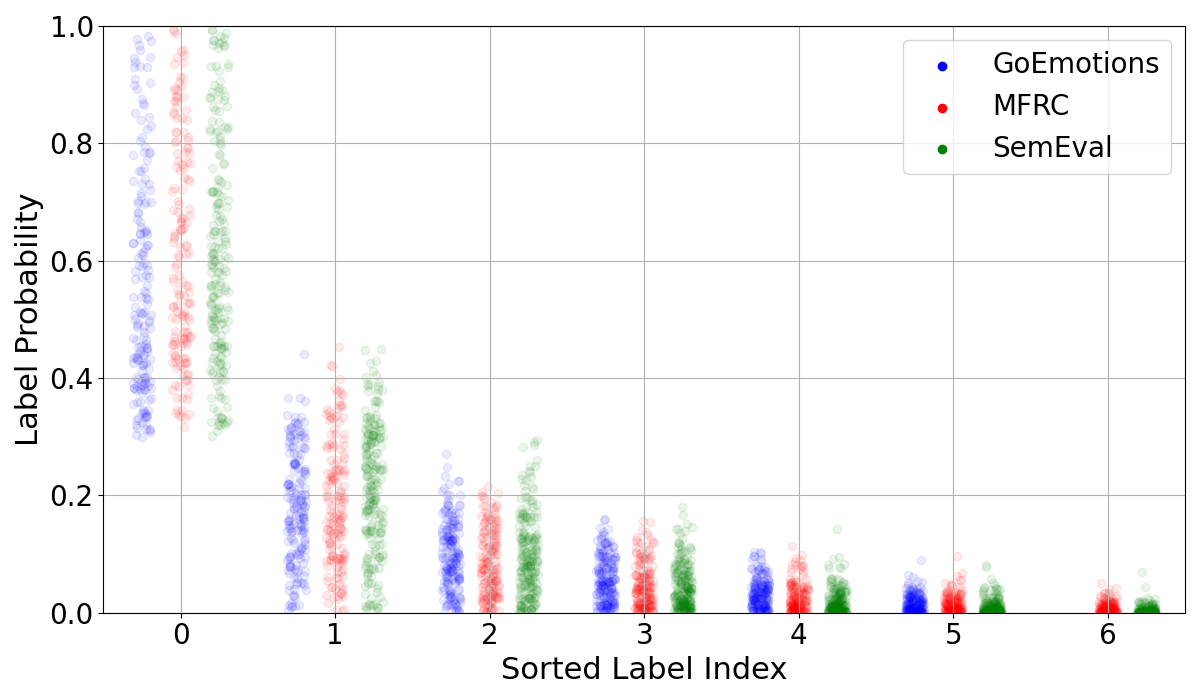
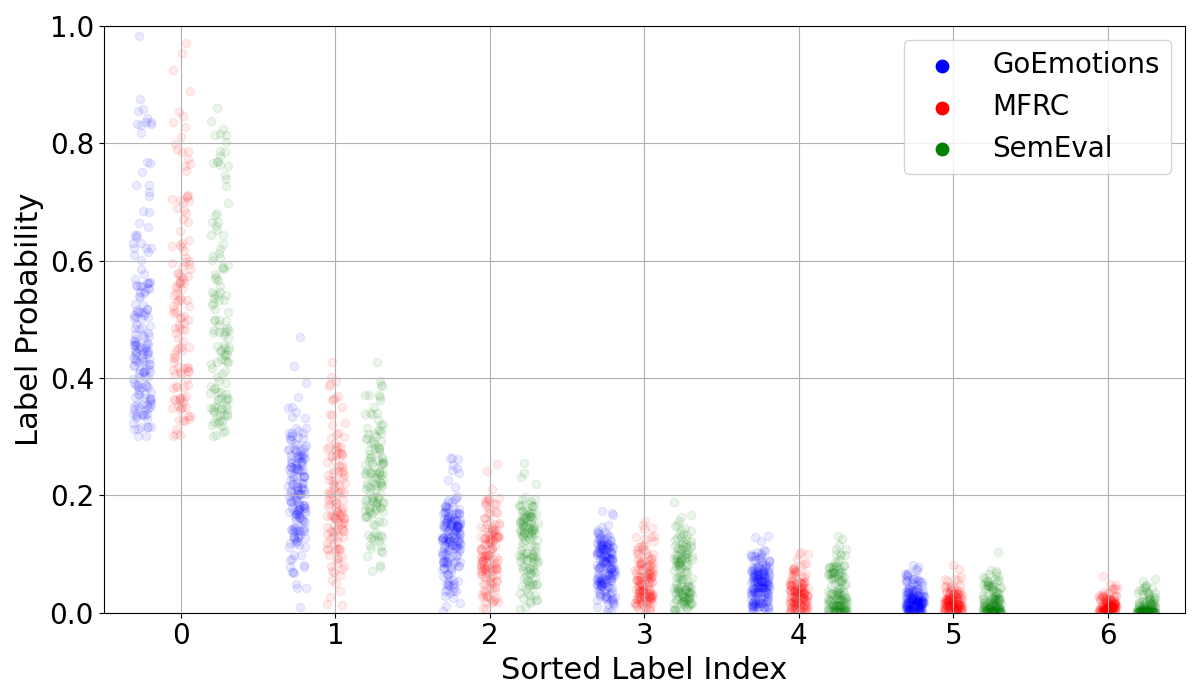
Add llama base experiments

diff --git a/scripts/prob_distr/plot_spikiness.py b/scripts/prob_distr/plot_spikiness.py
@@ -3,7 +3,9 @@ import os
 import numpy as np
 
 import sys
-sys.path.append('scripts/prob_distr')
+SCRIPT_DIR = os.path.dirname(os.path.abspath(__file__))
+PROJECT_ROOT = os.path.dirname(os.path.dirname(SCRIPT_DIR))
+sys.path.insert(0, SCRIPT_DIR)
 
 import matplotlib.pyplot as plt
 
@@ -48,14 +50,12 @@ def plot_multilabel_icl(yaml_files, save_path):
     for i, (yaml_file, color, label) in enumerate(zip(yaml_files, colors, labels)):
         data = load_data_from_yaml(yaml_file)
         points = get_graph_probs(data)
-        
+        # Legend entry (one per dataset; outside loop so we get it even if points is empty)
+        plt.scatter([], [], color=color, alpha=1, label=label, s=80)
         for x, probs in enumerate(points):
             jitter = x_offset * (i - 1)  # -0.25, 0.0, 0.25 for three datasets
             jittered_x = x + jitter + 0.12 * (np.random.random(len(probs)) - 0.5)
             plt.scatter(jittered_x, probs, color=color, alpha=0.08)
-            if x == 0:
-                plt.scatter(-1, -1, color=color, alpha=1, label=label)
-            # Only label once per dataset to avoid repeated legend entries
 
     plt.xlabel("Sorted Label Index", fontsize=22)
     plt.ylabel("Label Probability", fontsize=22)
@@ -66,7 +66,8 @@ def plot_multilabel_icl(yaml_files, save_path):
     plt.grid(True)
     plt.legend(loc='upper right', fontsize=20)
     plt.tight_layout()
-    
+
+    os.makedirs(os.path.dirname(save_path), exist_ok=True)
     plt.savefig(save_path)
     plt.close()
     
@@ -80,17 +81,17 @@ if __name__ == '__main__':
     
     models = [
         # 'meta-llama--Llama-3.2-1B-Instruct_0',
-        'meta-llama--Llama-3.1-8B-Instruct_1',
+        'meta-llama--Llama-3.1-8B_0',
         # 'meta-llama--Llama-3.3-70B-Instruct_0',
         # 'Qwen--Qwen2.5-7B-Instruct_0',
     ]
     
     yaml_files = []
-    
     for dataset in datasets:
         for model in models:
-            yaml_file = f'logs/{dataset}/main_test_set/baseline/{model}/indexed_metrics.yml'
+            yaml_file = os.path.join(PROJECT_ROOT, 'logs', dataset, 'main_test_set', 'baseline', model, 'indexed_metrics.yml')
             if os.path.exists(yaml_file):
                 yaml_files.append(yaml_file)
     
-    plot_multilabel_icl(yaml_files, save_path=f'scripts/prob_distr/figures/spikiness.png')
+    save_path = os.path.join(PROJECT_ROOT, 'scripts', 'prob_distr', 'figures', 'spikiness.png')
+    plot_multilabel_icl(yaml_files, save_path=save_path)
